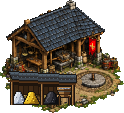
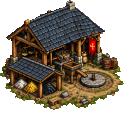
Powder mill: install the owner's ChatGPT shed and hopper art
New tools/import_mill_chatgpt.py fits art/redraws/powder_mill_shed.png onto the old built sprite
(124x113), keys the navy, writes built and damaged (125x113: old roof holes and rubble carried
over, damaged lean-to). Labourer heap stations and the hopper dust puff follow the new art.
rebuild_art.sh uses the new importer; the old shed script stays, unlisted.

Claude-Session: https://claude.ai/code/session_01NtmEZhP1uA8k4DLQ7BYfMz

diff --git a/tools/import_mill_chatgpt.py b/tools/import_mill_chatgpt.py
@@ -1,0 +1,270 @@
+"""The Crown Powder Mill from the owner's ChatGPT drawing art/redraws/powder_mill_shed.png
+(1312x1199 on flat navy: the original mill plus a lean-to roof over the three ingredient piles at
+the front left, saltpetre white, sulphur yellow, charcoal black, and a wooden hopper with a chute
+to the millstone). Replaces the code-drawn shed of tools/import_mill_shed.py (kept, unlisted).
+
+Built: the picture is fitted onto the old built sprite (art/crown/mill_base/powder_mill_built.png,
+124x113, so the building overlays it) by cross-correlating the roof, chimney and banner: SX/SY
+px of the drawing per game px, (OX, OY) the drawing pixel that lands on game column/row 0. The
+navy is keyed out by flood fill from the border (the slate roof is blue-grey too, so only the
+background connected to the edge goes), the keyed edge is eaten back two drawing px (no navy
+fringe), then box-filtered with premultiplied alpha down to 124x113, hard alpha edge at 50%
+coverage, and snapped to the old sprites' palette where a pixel is within SNAP of a palette colour.
+
+Damaged (125x113): the old damaged art is a different painting, so it cannot be diffed pixel for
+pixel; its damage is carried over by kind instead: the holes in the main roof (where the old
+damaged roof shows timber and darkness) and the rubble on the ground (slate bits, stones, charred
+wood: its pixels over the new ground) are copied at the same coordinates onto the new built
+sprite, then the new lean-to is damaged by hand (a hole, cracked and missing slates, a slipped
+corner, slates on the floor, the piles dusted with rubble). Construction and destroyed stay.
+
+Run (repo root): python3 tools/import_mill_chatgpt.py [--sheet FILE]
+Prints the pile centres and the hopper mouth in sprite px for scripts/unit.gd (MILL_PILE_DX,
+building.gd's dust puff).
+"""
+import os
+import sys
+
+import numpy as np
+from PIL import Image
+from scipy import ndimage
+from scipy.spatial import cKDTree
+
+ROOT = os.path.dirname(os.path.dirname(os.path.abspath(__file__)))
+SRC = os.path.join(ROOT, "art/redraws/powder_mill_shed.png")
+BASE = os.path.join(ROOT, "art/crown/mill_base")
+OUT = os.path.join(ROOT, "assets/buildings")
+W, H = 124, 113
+SX, SY, OX, OY = 10.08, 9.97, -0.495, 0.0      # fitted (see the docstring)
+X0, Y0 = 26, 37                                  # drawing px of the building's top-left
+NAVY = (3, 25, 51)
+ERODE = 2
+SNAP = 9
+
+
+def key_navy(im):
+    d = np.abs(im.astype(int) - np.array(NAVY)).sum(2)
+    bg = d < 30
+    lab, _ = ndimage.label(bg)
+    edge = set(lab[0]) | set(lab[-1]) | set(lab[:, 0]) | set(lab[:, -1])
+    edge.discard(0)
+    fg = ~np.isin(lab, list(edge))
+    fg = ndimage.binary_opening(fg, iterations=2)
+    l, n = ndimage.label(fg)
+    sz = ndimage.sum(fg, l, range(1, n + 1))
+    fg = l == (1 + int(np.argmax(sz)))
+    fg = ndimage.binary_fill_holes(fg)
+    return ndimage.binary_erosion(fg, iterations=ERODE)
+
+
+def box_down(im, fg):
+    pad = 400
+    imp = np.pad(im.astype(np.float32), ((pad, pad), (pad, pad), (0, 0)))
+    m = np.pad(fg.astype(np.float32), pad)
+    x0 = X0 + pad - OX * SX
+    y0 = Y0 + pad - OY * SY
+    box = (x0, y0, x0 + W * SX, y0 + H * SY)
+    chans = []
+    for c in range(3):
+        chans.append(np.array(Image.fromarray(imp[:, :, c] * m).resize((W, H), Image.BOX, box=box)))
+    cov = np.array(Image.fromarray(m).resize((W, H), Image.BOX, box=box))
+    out = np.zeros((H, W, 4), np.uint8)
+    ok = cov >= 0.5
+    for c in range(3):
+        out[:, :, c] = np.where(ok, np.clip(chans[c] / np.maximum(cov, 1e-6) + 0.5, 0, 255), 0)
+    out[:, :, 3] = np.where(ok, 255, 0)
+    return out
+
+
+def palette():
+    cols = {}
+    for s in ("built", "damaged"):
+        a = np.array(Image.open(os.path.join(BASE, f"powder_mill_{s}.png")).convert("RGBA"))
+        for p in a[a[:, :, 3] > 0][:, :3]:
+            cols[tuple(p)] = cols.get(tuple(p), 0) + 1
+    keep = np.array([c for c, n in cols.items() if n >= 3])
+    return keep, cKDTree(keep)
+
+
+def snap(a):
+    keep, tree = palette()
+    m = a[:, :, 3] > 0
+    d, i = tree.query(a[m][:, :3].astype(float), p=1)
+    px = a[m][:, :3].copy()
+    sel = d <= SNAP
+    px[sel] = keep[i[sel]]
+    a[m, :3] = px
+    return a
+
+
+def build_new():
+    im = np.array(Image.open(SRC).convert("RGB"))
+    fg = key_navy(im)
+    return snap(box_down(im, fg))
+
+
+def fringe(a):
+    """Drop edge pixels that are still navy-ish (blue far above red, dark)."""
+    for _ in range(2):
+        al = a[:, :, 3] > 0
+        edge = al & ~ndimage.binary_erosion(al, border_value=1)
+        r, g, b = [a[:, :, i].astype(int) for i in range(3)]
+        bad = edge & (b - r > 22) & (b > g + 6) & (r + g + b < 200)
+        a[bad] = 0
+    return a
+
+
+def old_damaged():
+    return np.array(Image.open(os.path.join(BASE, "powder_mill_damaged.png")).convert("RGBA"))
+
+
+def lum(a):
+    return a[:, :, :3].astype(int).sum(2) / 3.0
+
+
+def slate_like(a):
+    r, g, b = [a[:, :, i].astype(int) for i in range(3)]
+    return (a[:, :, 3] > 0) & (b >= r + 4) & (lum(a) > 28) & (lum(a) < 125)
+
+
+HOLES = [(46, 68, 9, 32), (69, 85, 25, 41)]      # windows (x0, x1, y0, y1) round the old roof's holes
+SHED_ROOF = None
+
+
+def roof_holes(new, old):
+    """Copy the old damaged roof's holes (timber and darkness) where the new roof is slate."""
+    r, g, b = [old[:, :, i].astype(int) for i in range(3)]
+    hole = (old[:, :, 3] > 0) & ((r > b + 8) | (lum(old) < 24))
+    win = np.zeros(hole.shape, bool)
+    for x0, x1, y0, y1 in HOLES:
+        win[y0:y1, x0:x1] = True
+    hole = ndimage.binary_opening(hole & win, iterations=1) | (hole & win & ndimage.binary_dilation(ndimage.binary_opening(hole & win), iterations=1))
+    ok = hole & slate_like(new) & (np.arange(new.shape[0])[:, None] < 52)
+    out = new.copy()
+    out[ok] = old[ok]
+    return out, ok
+
+
+def ground_rubble(new, old):
+    """Slate bits, stones and char from the old damaged ground, over the new bare dirt and grass."""
+    r, g, b = [old[:, :, i].astype(int) for i in range(3)]
+    l = lum(old)
+    rub = (old[:, :, 3] > 0) & (((b >= r + 8) & (l > 40) & (l < 135)) | (l < 34) | ((l > 120) & (abs(r - g) < 14) & (abs(g - b) < 16)))
+    nr, ng, nb = [new[:, :, i].astype(int) for i in range(3)]
+    nl = lum(new)
+    dirt = (new[:, :, 3] > 0) & (((nr > nb + 25) & (nl > 85) & (nl < 205)) | ((ng > nr + 6) & (ng > nb + 20)))
+    yy, xx = np.mgrid[0:new.shape[0], 0:new.shape[1]]
+    zone = (yy >= 62)
+    zone &= ~((xx >= 4) & (xx <= 96) & (yy >= 56) & (yy <= 101))        # the shed and its piles
+    zone &= ~((xx >= 62) & (xx <= 100) & (yy >= 60) & (yy <= 88))       # hopper
+    ok = rub & dirt & zone
+    rng = np.random.RandomState(7)
+    ok &= rng.rand(*ok.shape) < 0.95
+    out = new.copy()
+    out[ok] = old[ok]
+    return out
+
+
+SLATE = [(25, 25, 26), (50, 50, 52), (63, 70, 78), (81, 95, 107)]
+WOOD = [(65, 40, 18), (86, 52, 25), (160, 115, 62), (173, 127, 73)]
+DARK = (22, 16, 12)
+UNDER = (44, 32, 22)
+
+
+def put(a, x, y, c):
+    if 0 <= x < a.shape[1] and 0 <= y < a.shape[0]:
+        a[y, x, :3] = c
+        a[y, x, 3] = 255
+
+
+def shed_damage(a):
+    """The new lean-to: a hole through the slates with the rafters showing, bare patches where
+    slates are gone, hairline cracks, slates fallen on the floor, the piles dusted with rubble."""
+    rng = np.random.RandomState(11)
+    roof = slate_like(a)
+    yy, xx = np.mgrid[0:a.shape[0], 0:a.shape[1]]
+    roof &= (xx >= 6) & (xx <= 58) & (yy >= 57) & (yy <= 82)
+    # main hole and a small one: flattened ellipses on the roof plane
+    for cx, cy, rx, ry in [(26, 67, 7.5, 3.6), (43, 73, 4.2, 2.0)]:
+        hole = roof & (((xx - cx) / rx) ** 2 + ((yy - cy) / ry) ** 2 <= 1.0)
+        a[hole, :3] = DARK
+        # a rafter across the big hole and a broken one across the small
+        for t in range(-8, 9):
+            x = int(round(cx + t * 0.9))
+            y = int(round(cy + t * 0.42))
+            if 0 <= y < a.shape[0] and hole[y, x]:
+                a[y, x, :3] = WOOD[1]
+                if y + 1 < a.shape[0] and hole[y + 1, x]:
+                    a[y + 1, x, :3] = WOOD[0]
+        # torn rim: lighter slate chips and timber splinters round the edge
+        rim = ndimage.binary_dilation(hole, iterations=1) & ~hole & roof
+        chips = rim & (rng.rand(*rim.shape) < 0.35)
+        a[chips, :3] = np.array(UNDER)
+    # bare patches (slates gone): 3x2 blocks of the underlay
+    for cx, cy in [(15, 65), (33, 71), (50, 74), (22, 72)]:
+        for dy in range(2):
+            for dx in range(3):
+                if roof[cy + dy, cx + dx]:
+                    put(a, cx + dx, cy + dy, UNDER if (dx + dy) % 2 == 0 else WOOD[0])
+    # cracks: a dark 1px line running down the slope (down-left to up-right)
+    for sx_, sy_ in [(36, 68), (17, 69), (48, 71)]:
+        for t in range(6):
+            x, y = sx_ + t, sy_ - t // 2
+            if 0 <= y < a.shape[0] and roof[y, x]:
+                put(a, x, y, SLATE[0])
+    # slates on the floor, in front of and beside the shed
+    for cx, cy in [(14, 95), (24, 99), (38, 101), (52, 99), (62, 94), (9, 90), (70, 92), (56, 106)]:
+        for dy in range(2):
+            for dx in range(3 - dy):
+                c = SLATE[int(rng.randint(1, 4))]
+                put(a, cx + dx, cy + dy, c)
+    # the piles dusted with rubble: a few slate and timber bits on them
+    for cx, cy in [(19, 84), (22, 88), (30, 85), (33, 90), (46, 88), (50, 91)]:
+        put(a, cx, cy, SLATE[2])
+        put(a, cx + 1, cy, SLATE[1])
+    return a
+
+
+def loose_rubble(a):
+    """Extra fallen slates and timber splinters on bare ground, thickest below the roof holes."""
+    rng = np.random.RandomState(5)
+    nr, ng, nb = [a[:, :, i].astype(int) for i in range(3)]
+    nl = lum(a)
+    dirt = (a[:, :, 3] > 0) & (nr > nb + 25) & (nl > 90) & (nl < 205)
+    yy, xx = np.mgrid[0:a.shape[0], 0:a.shape[1]]
+    dirt &= (yy >= 70) & ~((xx >= 4) & (xx <= 96) & (yy >= 56) & (yy <= 101)) & ~((xx >= 62) & (xx <= 100) & (yy >= 60) & (yy <= 88))
+    ys, xs = np.where(dirt)
+    pick = rng.rand(len(ys)) < 0.05
+    for x, y in zip(xs[pick], ys[pick]):
+        kind = rng.rand()
+        if kind < 0.55:
+            c = SLATE[int(rng.randint(0, 3))]
+            put(a, x, y, c)
+            if rng.rand() < 0.6:
+                put(a, x + 1, y, SLATE[int(rng.randint(1, 4))])
+        else:
+            put(a, x, y, WOOD[int(rng.randint(0, 3))])
+            put(a, x + 1, y - 1, WOOD[0])
+    return a
+
+
+def damaged(built):
+    old = old_damaged()
+    built = np.pad(built, ((0, 0), (0, 1), (0, 0)))
+    out, holes = roof_holes(built, old)
+    out = ground_rubble(out, old)
+    out = loose_rubble(out)
+    out = shed_damage(out)
+    return out
+
+
+def main():
+    built = fringe(build_new())
+    Image.fromarray(built).save(os.path.join(OUT, "powder_mill_built.png"))
+    dm = damaged(built)
+    Image.fromarray(dm).save(os.path.join(OUT, "powder_mill_damaged.png"))
+    print("built and damaged written")
+
+
+if __name__ == "__main__":
+    main()
